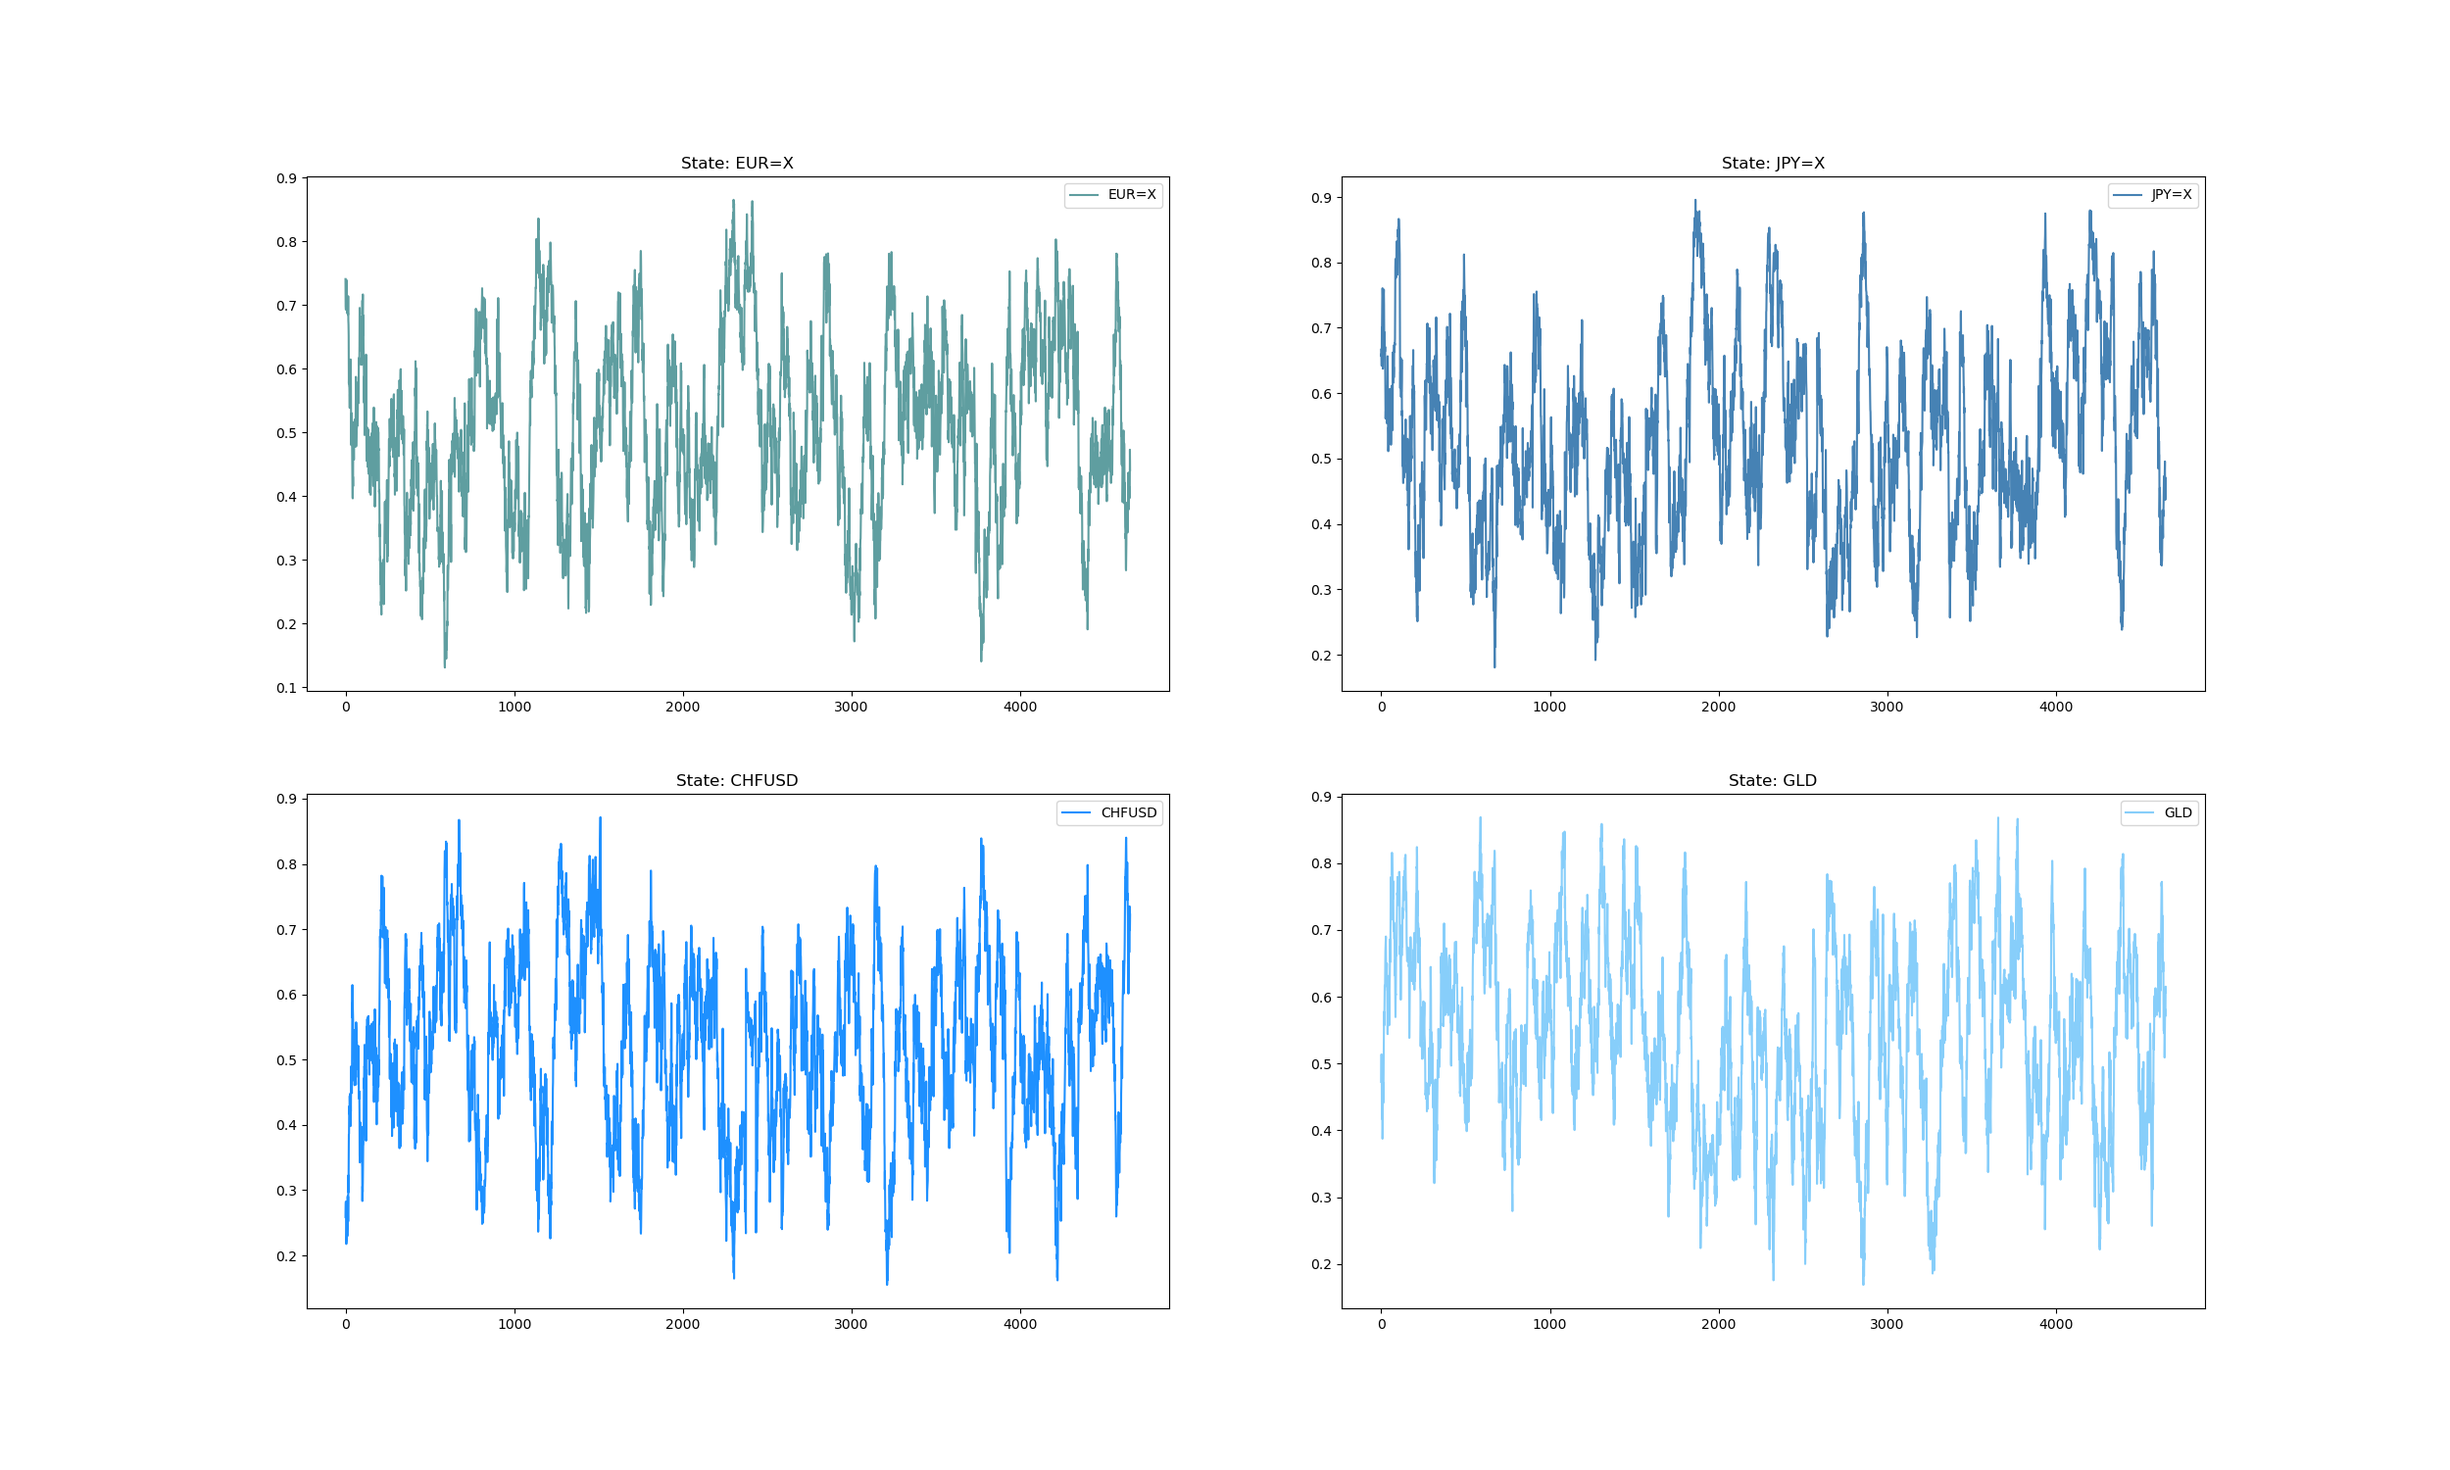
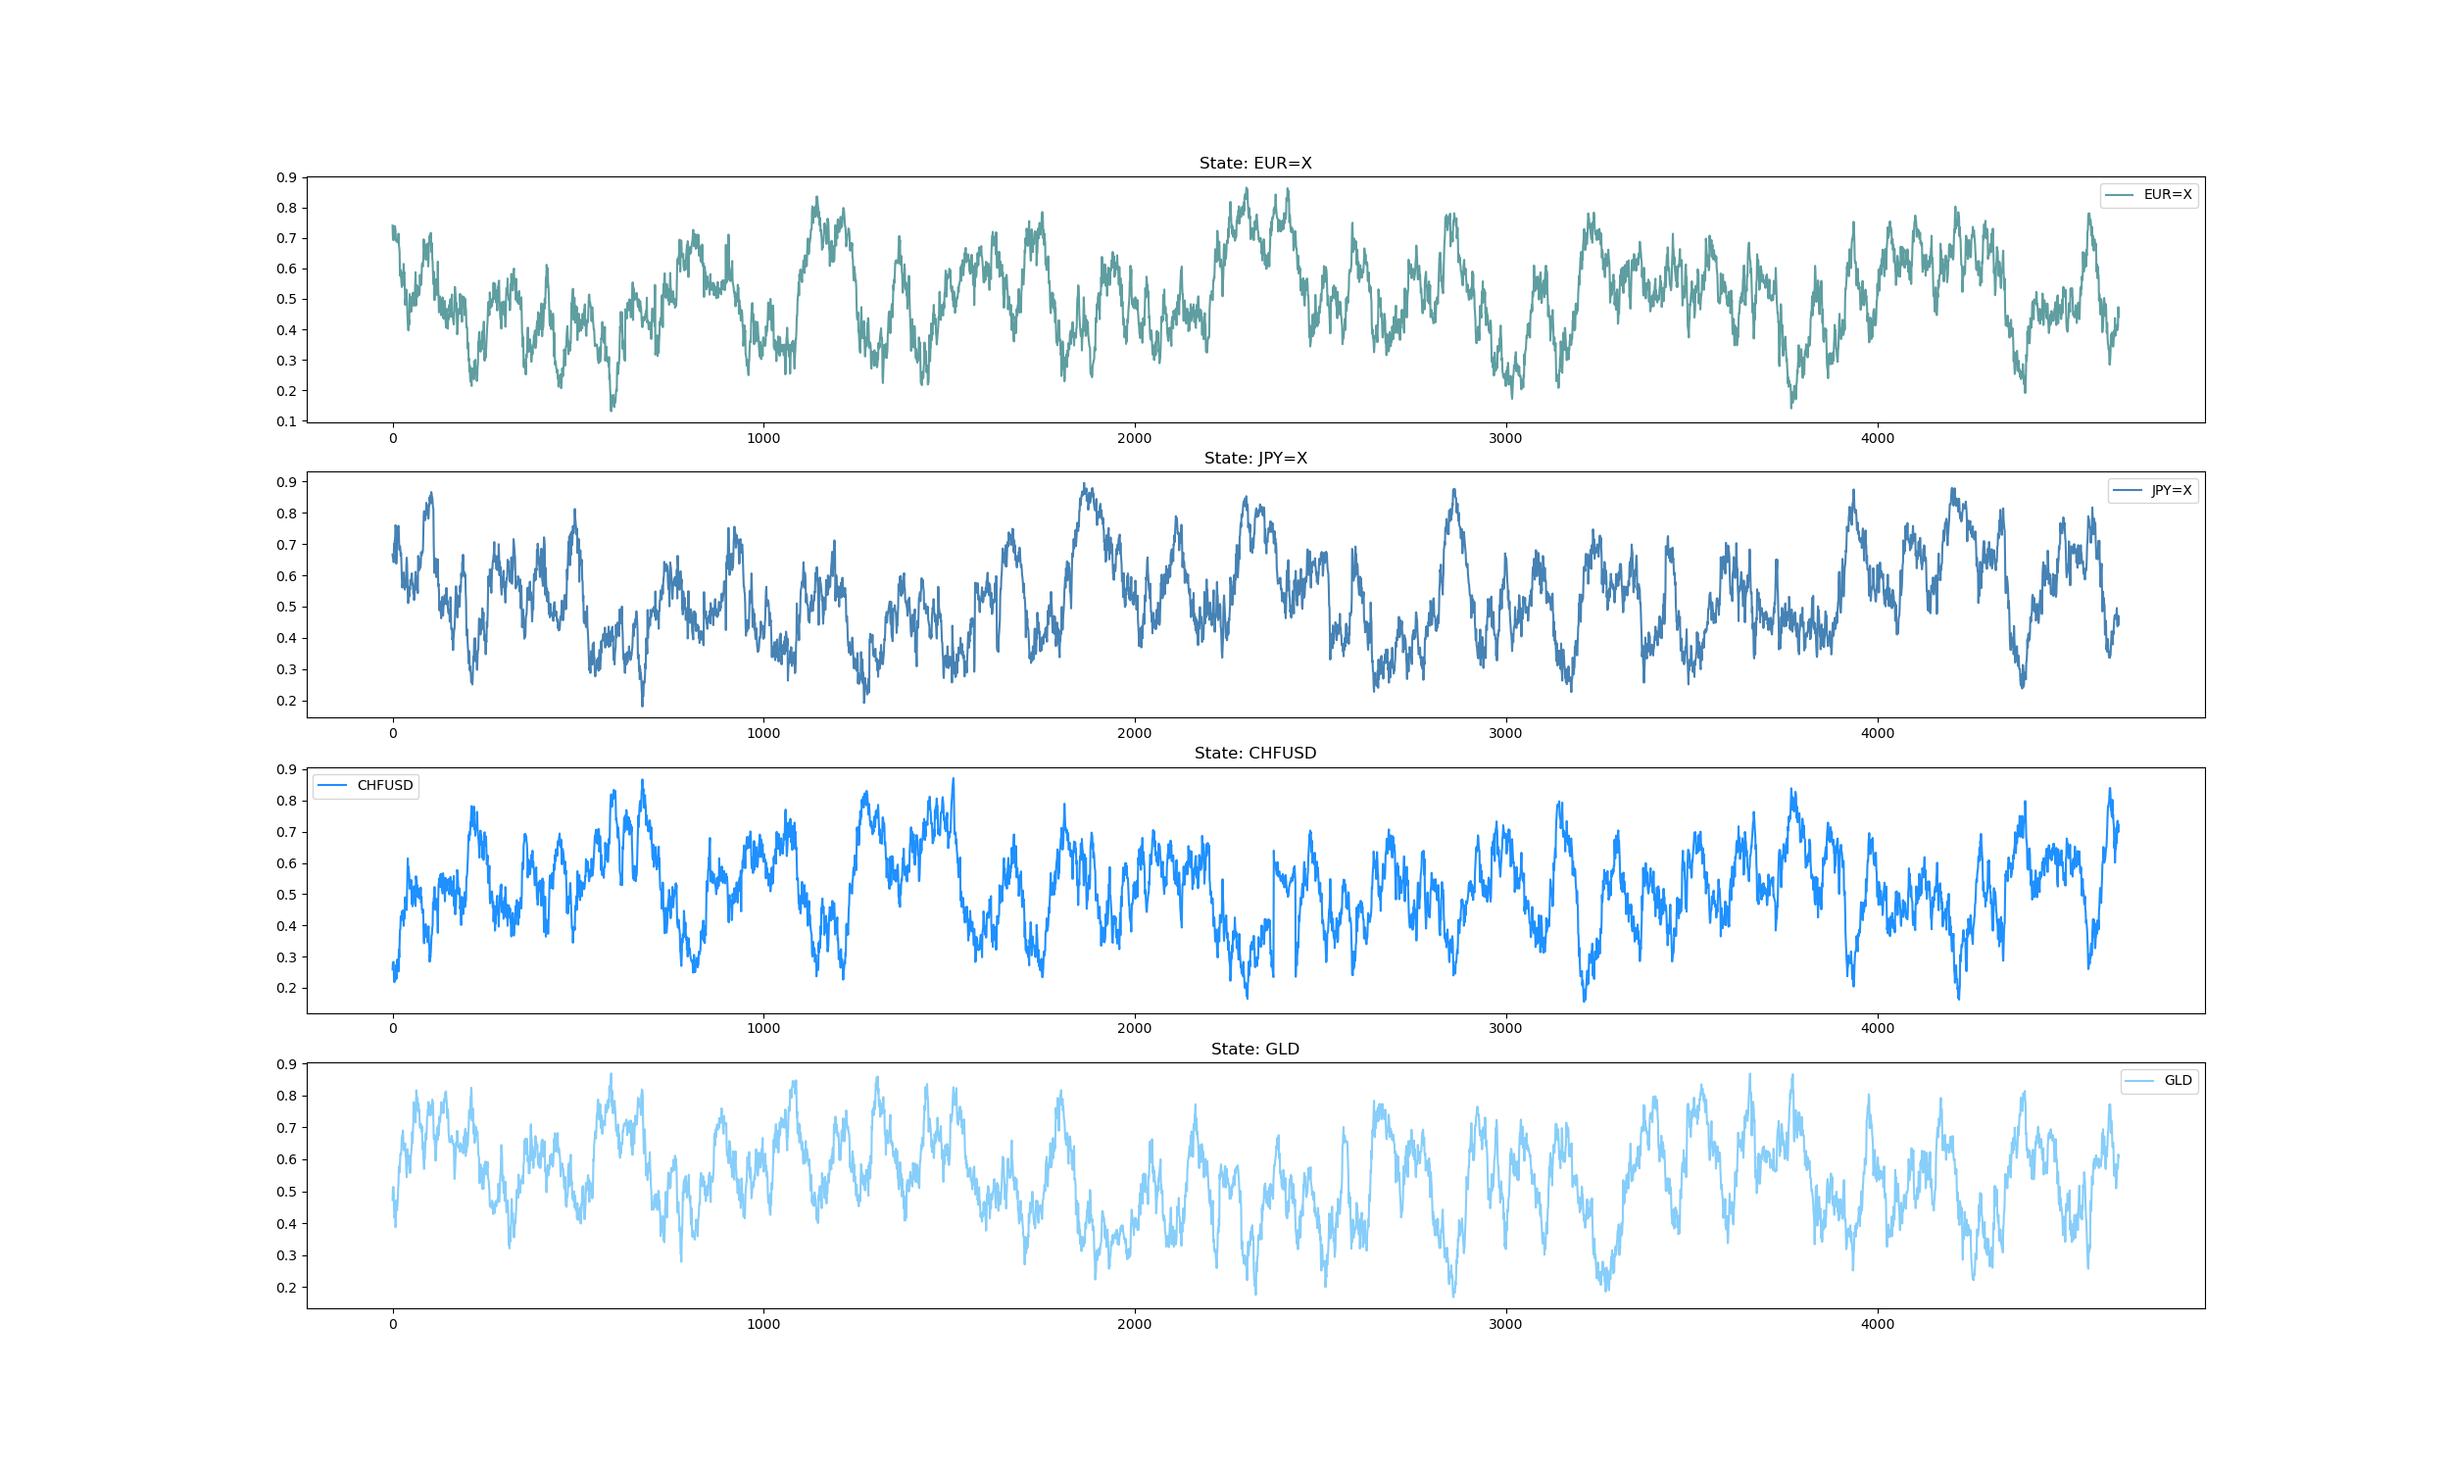
2024-02-05

diff --git a/python/test.py b/python/test.py
@@ -14,7 +14,7 @@ if __name__ == "__main__":
     k = 1
     plt.figure(figsize=(25,15))
     for key in state.keys():
-        plt.subplot(2, 2, k)
+        plt.subplot(state.keys().shape[0], 1, k)
         plt.title(f"State: {key}")
         plt.plot(state[key], label=key, color=colors[k-1])
         plt.legend()
